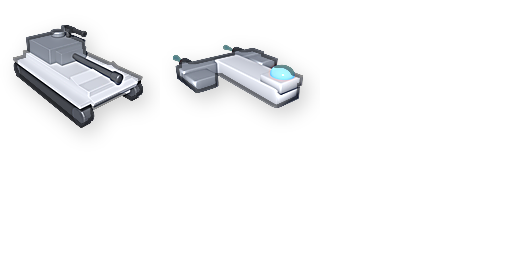
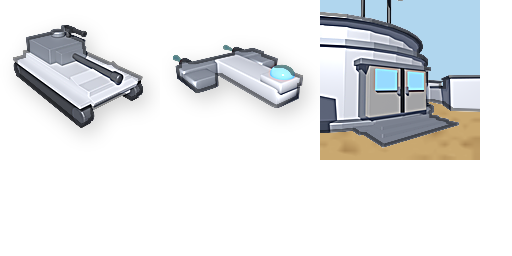
add a close-up HQ portrait from the entrance steps
Wire the HQ into the selection strip with a courtyard desert floor and flat sky, without painting sand over the stairs or annex wall.

Changed region(s): [[0.625, 0.0, 0.9375, 0.625]]

diff --git a/tools/pack_portraits.py b/tools/pack_portraits.py
@@ -24,7 +24,12 @@ MARGIN = 14
 SHADOW_OFFSET = (5, 7)
 SHADOW_BLUR = 9
 SHADOW_ALPHA = 110
-UNITS = ("tank", "eship")
+UNITS = ("tank", "eship", "hq")
+
+SKY = (176, 214, 238)
+SAND = (201, 168, 112)
+SAND_DARK = (168, 132, 82)
+SAND_LIGHT = (224, 196, 148)
 
 
 def crop_alpha(im, pad=2):
@@ -71,7 +76,42 @@ def unsharp(im):
     return im.filter(ImageFilter.UnsharpMask(radius=1.6, percent=140, threshold=2))
 
 
-def frame_unit(src):
+def grain(size, sigma=28):
+    return Image.effect_noise(size, sigma).convert("L")
+
+
+def desert_fill(size):
+    """Flat desert slab with dusty blotches. No sky-to-sand gradient."""
+    base = Image.new("RGB", size, SAND)
+    n1 = grain((max(1, size[0] // 10), max(1, size[1] // 6)), 36).resize(size, Image.BILINEAR)
+    n2 = grain((max(1, size[0] // 4), max(1, size[1] // 3)), 24).resize(size, Image.BILINEAR)
+    dark = Image.new("RGB", size, SAND_DARK)
+    light = Image.new("RGB", size, SAND_LIGHT)
+    dark_m = n1.point(lambda v: max(0, min(255, (v - 132) * 3)))
+    light_m = n2.point(lambda v: max(0, min(255, (v - 148) * 2)))
+    out = Image.composite(dark, base, dark_m)
+    out = Image.composite(light, out, light_m.point(lambda v: int(v * 0.45)))
+    return out.convert("RGBA")
+
+
+def hq_scene(src):
+    """Keep stairs, doors and annex intact; desert only where the render is empty."""
+    im = Image.open(src).convert("RGBA")
+    subject = im.resize((FRAME, FRAME), Image.LANCZOS)
+    subject = unsharp(subject)
+    subject = edge_darken(subject)
+
+    horizon = int(FRAME * 0.54)
+    canvas = Image.new("RGBA", (FRAME, FRAME), SKY + (255,))
+    canvas.paste(desert_fill((FRAME, FRAME - horizon)), (0, horizon))
+    canvas.paste(subject, (0, 0), subject)
+    return canvas
+
+
+def frame_unit(src, environment=None):
+    if environment == "hq":
+        return hq_scene(src)
+
     im = Image.open(src).convert("RGBA")
     im = crop_alpha(im)
     subject = fit(im, FRAME - 2 * MARGIN)
@@ -109,7 +149,7 @@ def main():
         src = SRC / f"{name}.png"
         if not src.is_file():
             raise SystemExit(f"missing render {src}")
-        sheet.paste(frame_unit(src), (i * FRAME, 0))
+        sheet.paste(frame_unit(src, environment=name if name == "hq" else None), (i * FRAME, 0))
     OUT.parent.mkdir(parents=True, exist_ok=True)
     sheet.save(OUT)
     print(f"wrote {OUT} {sheet.size} frames={len(UNITS)} size={FRAME}")

diff --git a/OpenRA.Mods.Example/Widgets/SelectionPortraitsWidget.cs b/OpenRA.Mods.Example/Widgets/SelectionPortraitsWidget.cs
@@ -24,7 +24,8 @@ namespace OpenRA.Mods.Example.Widgets
 		public static readonly Dictionary<string, string> ByActor = new()
 		{
 			["fs_tank"] = "tank",
-			["fs_sentinel"] = "eship"
+			["fs_sentinel"] = "eship",
+			["fs_hq"] = "hq"
 		};
 
 		readonly World world;
